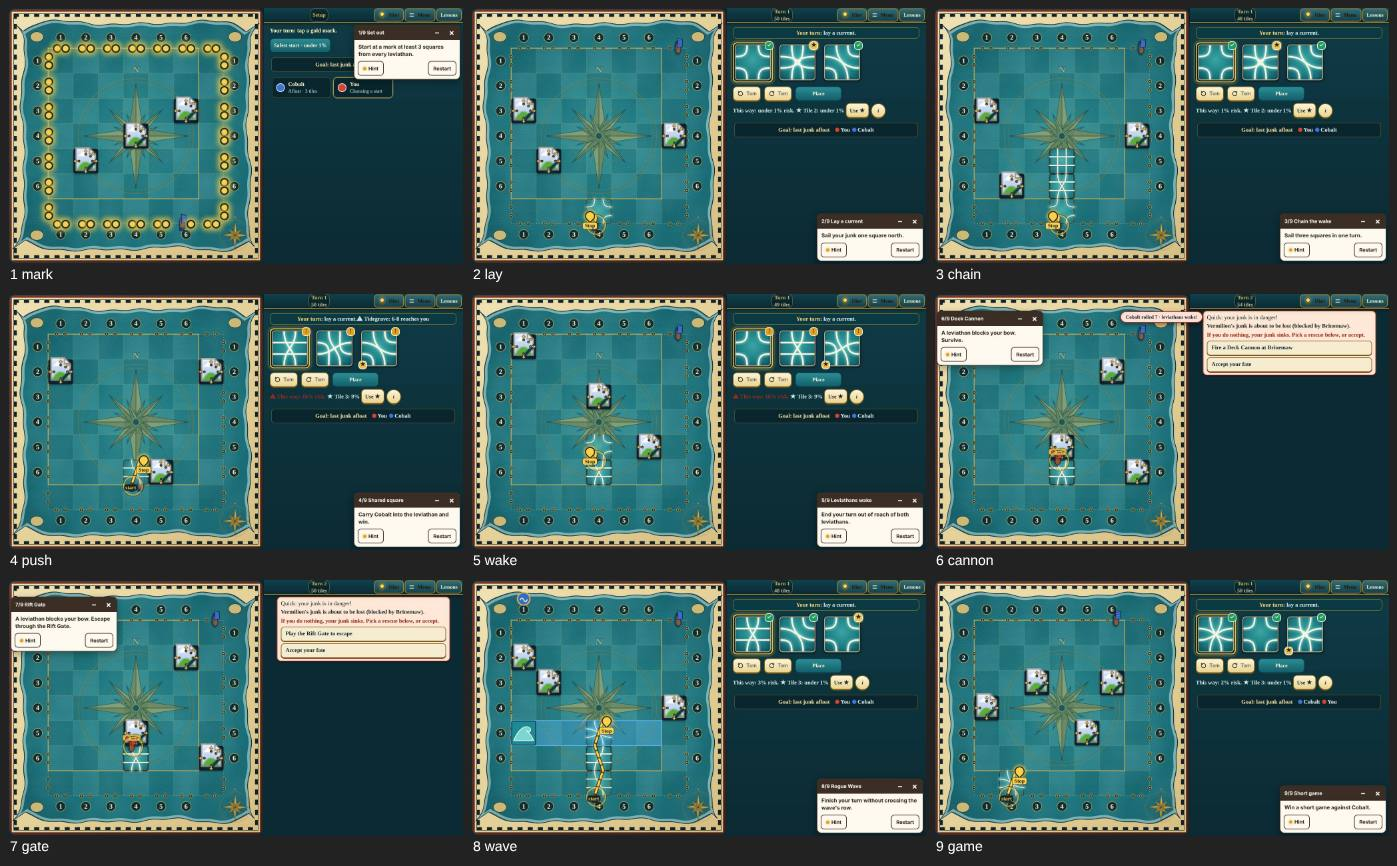
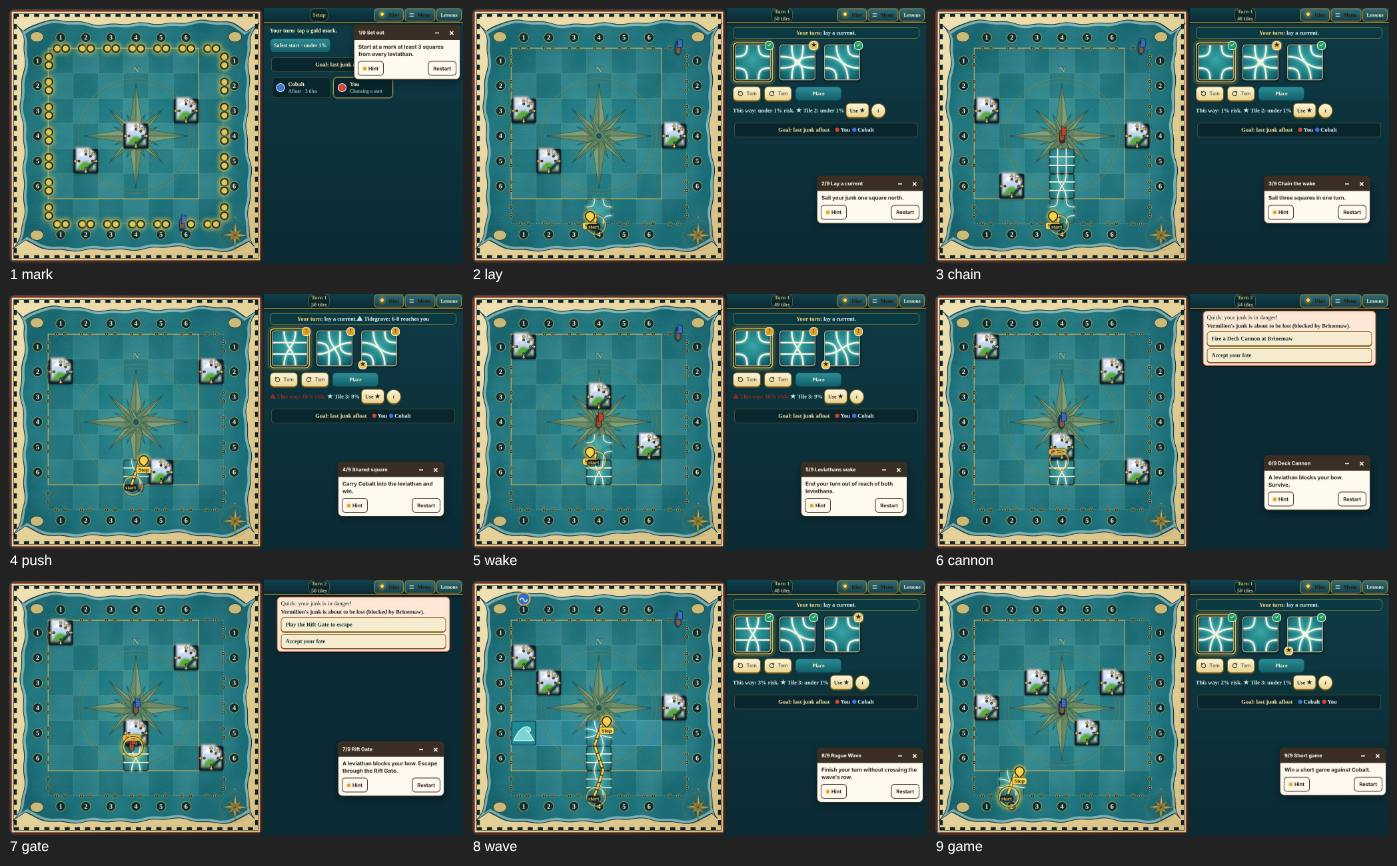
Tidewake lessons: phone danger panel and card no longer overlap; mark hint rings the start mark

diff --git a/games-src/tidewake/game/lessons.js b/games-src/tidewake/game/lessons.js
@@ -40,7 +40,7 @@
     try { GX.close(); } catch (e) { } try { GXH.setEnabled(false); GXH.hide(); } catch (e) { }
     var s = defaultSetup(); s.mode = 'me'; s.np = 2; s.variant = null; s.noMon = false; s.exp = Object.assign({ rift: 0, wave: 0, maelstrom: 0, cannon: 0 }, sp.exp || {});
     s.seats[0] = { h: true, lv: 'normal', col: 0 }; s.seats[1] = { h: false, lv: 'easy', col: 3 };
-    L.on = 1; L.n = 0; L.roll = sp.roll || null; L.mon = sp.mon || {}; L.wdie = sp.wdie || 5; L.co = sp.co || null; L.startN = 0;
+    document.documentElement.classList.add('twl'); L.on = 1; L.n = 0; L.roll = sp.roll || null; L.mon = sp.mon || {}; L.wdie = sp.wdie || 5; L.co = sp.co || null; L.startN = 0;
     startGame(JSON.parse(JSON.stringify(s)), { first: sp.first == null ? 0 : sp.first, seed: 7, names: ['Vermilion', 'Cobalt'] });
     if (L.qt == null) L.qt = UI.qTime; UI.qTime = 0;   // no answer timer in a lesson: nothing is decided for the player
     build(sp); UI.guide = 'off'; UI.sel = null; UI.busy = false; UI.sunk = []; UI.mph = null; PH.mphHide = null; UI.overSeen = 0; UI.dice = null; UI.res = null; UI.tut = 0;
@@ -52,6 +52,7 @@
   // ---- each lesson's wrong answer says why, in the engine's own words
   var why = function () { var o = me().out || '', c = G.ships[COB].out || ''; if (!me().alive) return o; return c; };
   var lost = function (msg) { return function () { return !me().alive && did() ? msg : false; }; };
+  var rectEl = function (r) { return r ? { getBoundingClientRect: function () { return { left: r.left, top: r.top, right: r.left + r.width, bottom: r.top + r.height, width: r.width, height: r.height }; } } : null; };   // the engine rings anything with getBoundingClientRect; tcell gives a bare rect
   var T = function (i) { return tvis('[data-a=card][data-t="' + i + '"],[data-ph=pcard][data-t="' + i + '"]'); };
   var lessons = [
     { id: 'mark', title: 'Set out', rule: 'Every junk picks a gold start mark on the edge before any tile is laid. Leviathans roam the chart, so start away from them.', par: 1,
@@ -59,7 +60,7 @@
       setup: function () { return stack({ setup: 1, first: 1, sp: 1, ships: [{}, { x: 5, y: 6, e: 5 }], mons: [{ id: 0, x: 1, y: 4 }, { id: 3, x: 5, y: 2 }, { id: 6, x: 3, y: 3 }], hands: [[4, 7, 5], [8, 9, 10]] }); },
       success: function () { var m = me(); return did() && m.alive && m.x != null && G.mons.every(function (l) { return dist(m, l) >= 3; }); },
       fail: function () { var m = me(); if (!did() || m.x == null) return false; if (!m.alive) return 'Your junk was lost. ' + why(); var l = G.mons.filter(function (v) { return dist(m, v) < 3; })[0]; return l ? 'A leviathan is only ' + dist(m, l) + ' squares from your start. When they wake it can reach your bow.' : false; },
-      hints: ['Leviathans are the dark monsters on the chart. Look for a mark far from all three.', { say: 'The bottom middle is far from every leviathan.', target: function () { return tcell(3, 6); } }],
+      hints: ['Leviathans are the dark monsters on the chart. Look for a mark far from all three.', { say: 'The bottom middle is far from every leviathan.', target: function () { return tvis('[data-a=startmark][data-x="3"][data-y="6"][data-e="4"]') || rectEl(tcell(3, 6)); } }],
       debrief: 'Far from the leviathans, you have room to sail.' },
     { id: 'lay', title: 'Lay a current', rule: 'Pick a current tile, turn it, then Place it on the square in front of your junk. Your junk sails along its line.', par: 1,
       goal: 'Sail your junk one square north.',
@@ -138,13 +139,13 @@
     };
     var oc = act; act = function (m, seat) { var ok = oc.apply(this, arguments); if (ok && seat === 0 && GXST.active()) L.n++; return ok; };
     var os = saveAll; saveAll = function () { if (!GXST.active()) return os.apply(this, arguments); };
-    addEventListener('gxst', function (e) { if (e.detail.type === 'close' && L.qt != null) { UI.qTime = L.qt; L.qt = null; } });
+    addEventListener('gxst', function (e) { if (e.detail.type === 'close' || e.detail.type === 'picker') document.documentElement.classList.remove('twl'); if (e.detail.type === 'close' && L.qt != null) { UI.qTime = L.qt; L.qt = null; } });
     window.TWL = { L: L, build: build, stack: stack };
   }
   var go = function () {
     if (!ready()) { setTimeout(go, 200); return; }
     hook();
-    GXST.init({ game: 'tidewake', scenarios: lessons, keepClear: ['.gx-bar', '#board', '[data-a=card]', '[data-ph=pcard]', '[data-a=rot]', '[data-a=place]', '[data-a=q]', '[data-a=startmark]', '#cards', '#pc', '.prompt'], settled: function () { return !!G && UI.started && !UI.busy && (G.q && G.q.who === 0 || !G.ag.length && (G.over || sideToAct() === 0)); } });
+    GXST.init({ game: 'tidewake', scenarios: lessons, keepClear: ['.gx-bar', '#board', '[data-a=card]', '[data-ph=pcard]', '[data-a=rot]', '[data-a=place]', '[data-a=q]', '[data-a=startmark]', '#cards', '.prompt', '.opts'], settled: function () { return !!G && UI.started && !UI.busy && (G.q && G.q.who === 0 || !G.ag.length && (G.over || sideToAct() === 0)); } });
   };
   setTimeout(go, 300);
 })();

diff --git a/games-src/tidewake/game/skin.css b/games-src/tidewake/game/skin.css
@@ -200,3 +200,6 @@ html.ph #ps.fit1 .ps-goal i{margin:0 2px 0 4px}
 html.ph #ps.fit2 .ps-goal .race{overflow:hidden;text-overflow:ellipsis}
 /* R42: while a coach bubble or card is up, start marks next to it keep their dot but lose the tall touch area that reached over the bubble (pgClip) */
 #ov .opip.pickable.nearbub::after{display:none}
+
+/* lessons: on a phone the danger panel drops its warning line so the lesson card docks below it, clear of the answers */
+html.ph.twl #pc .prompt.alert .warn-l{display:none}
